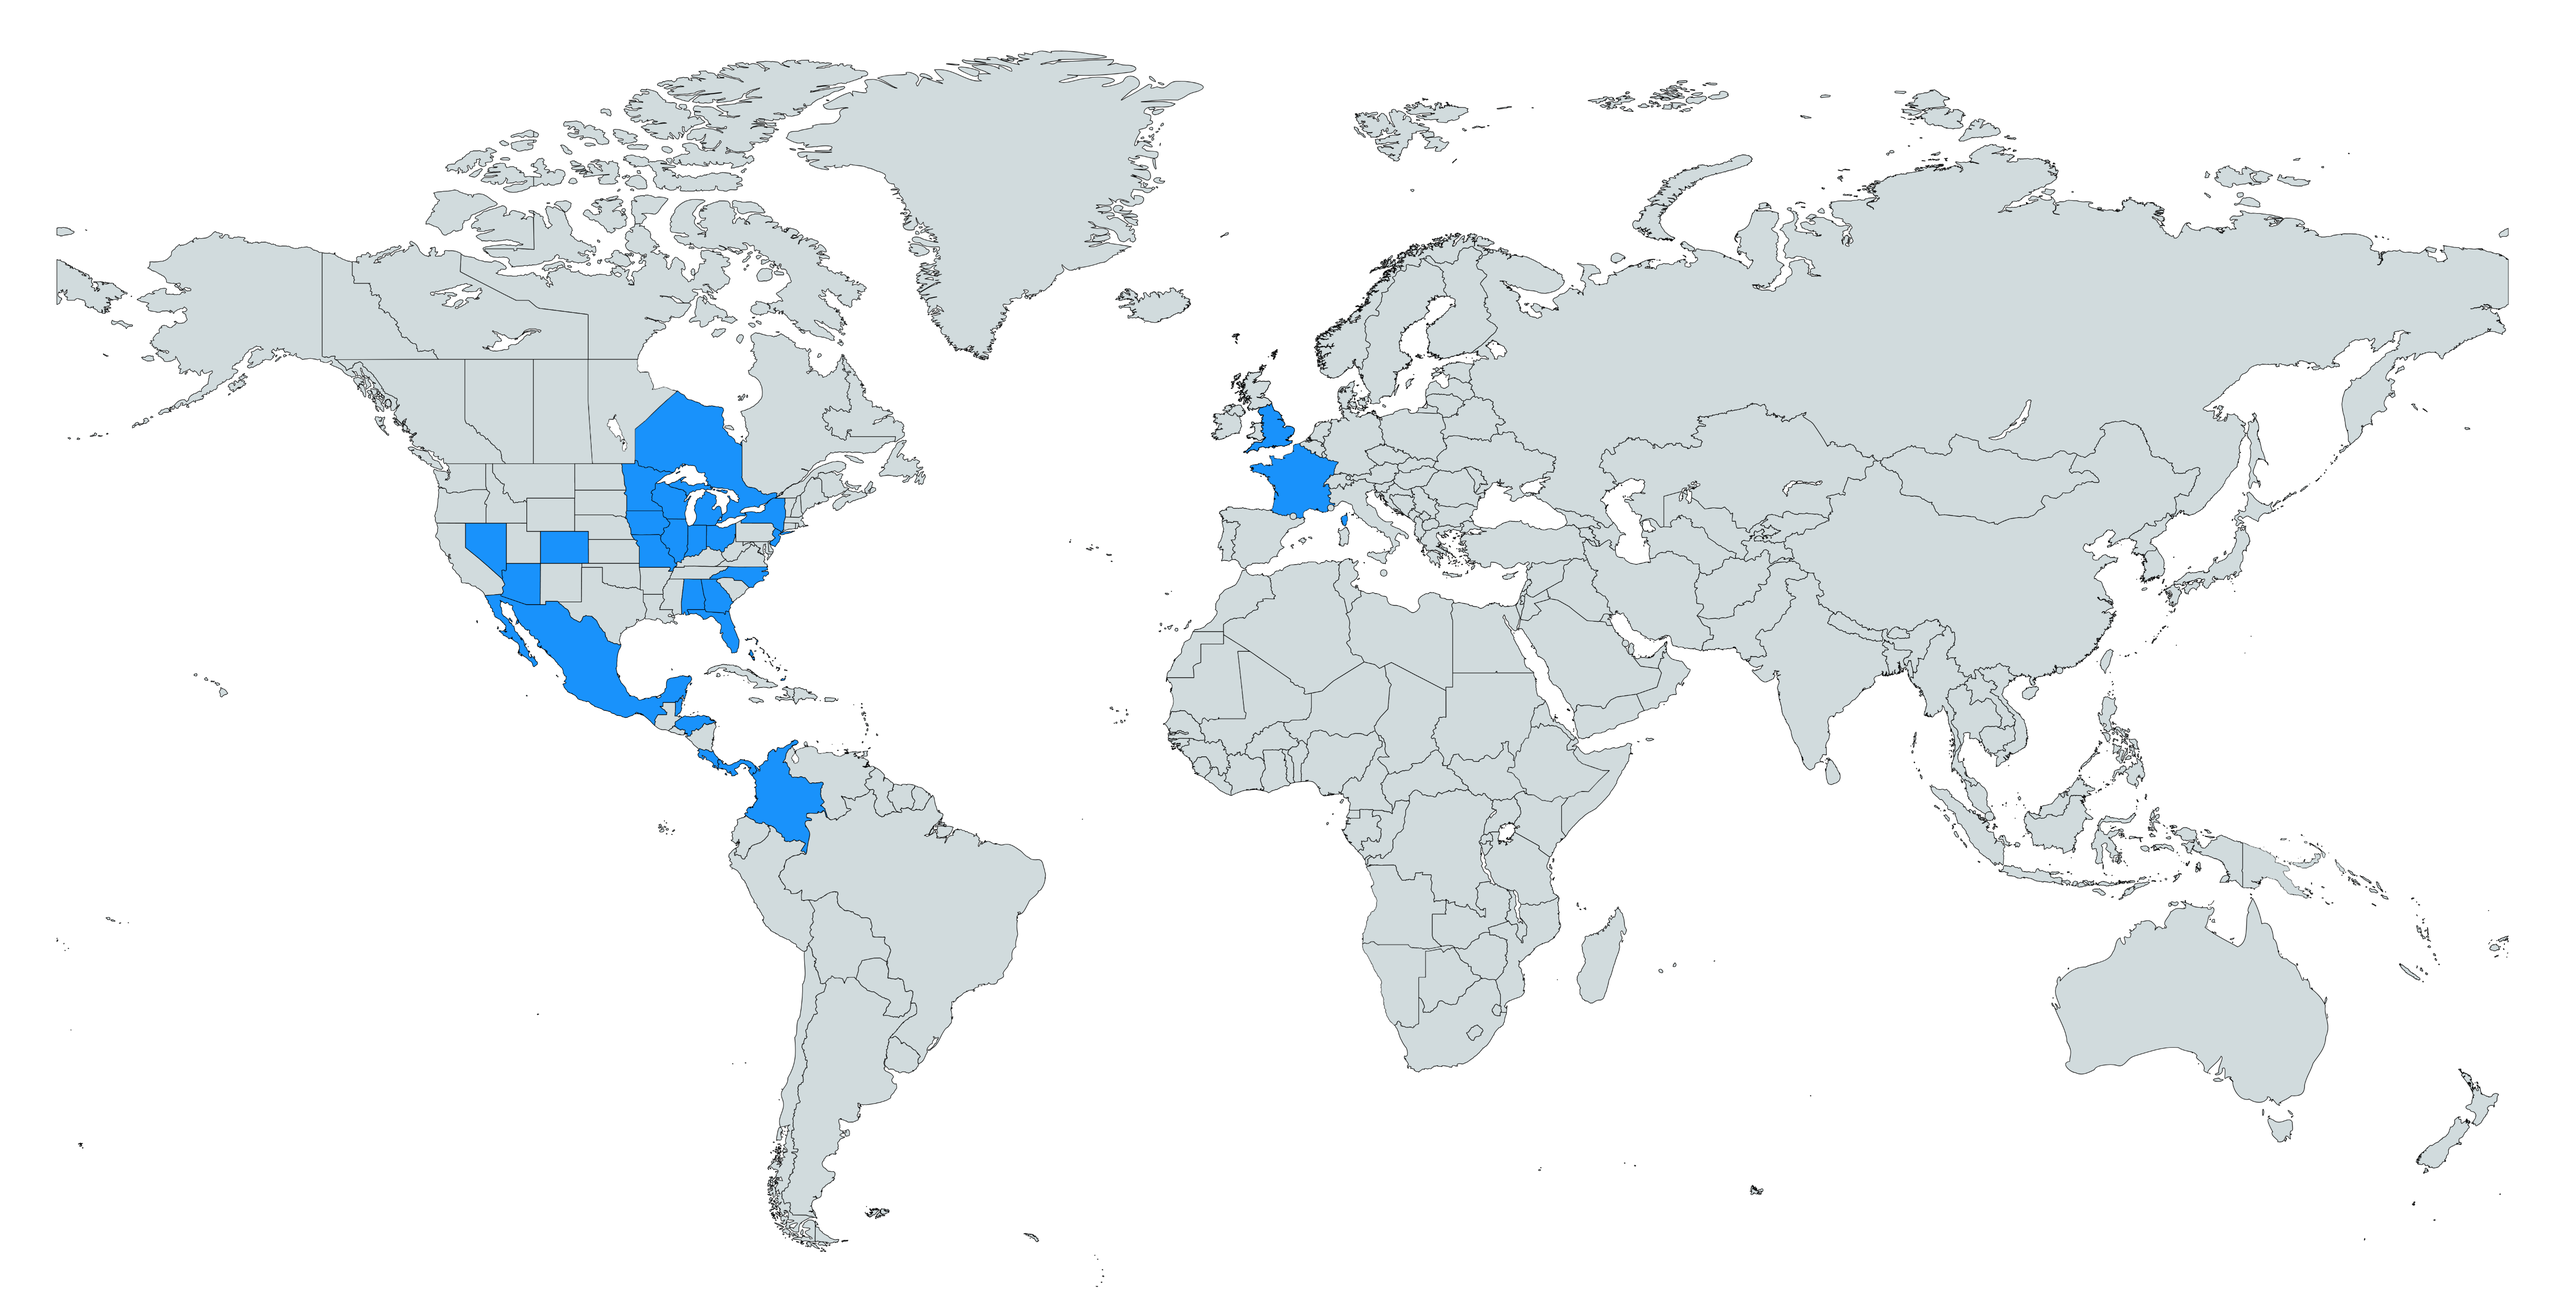
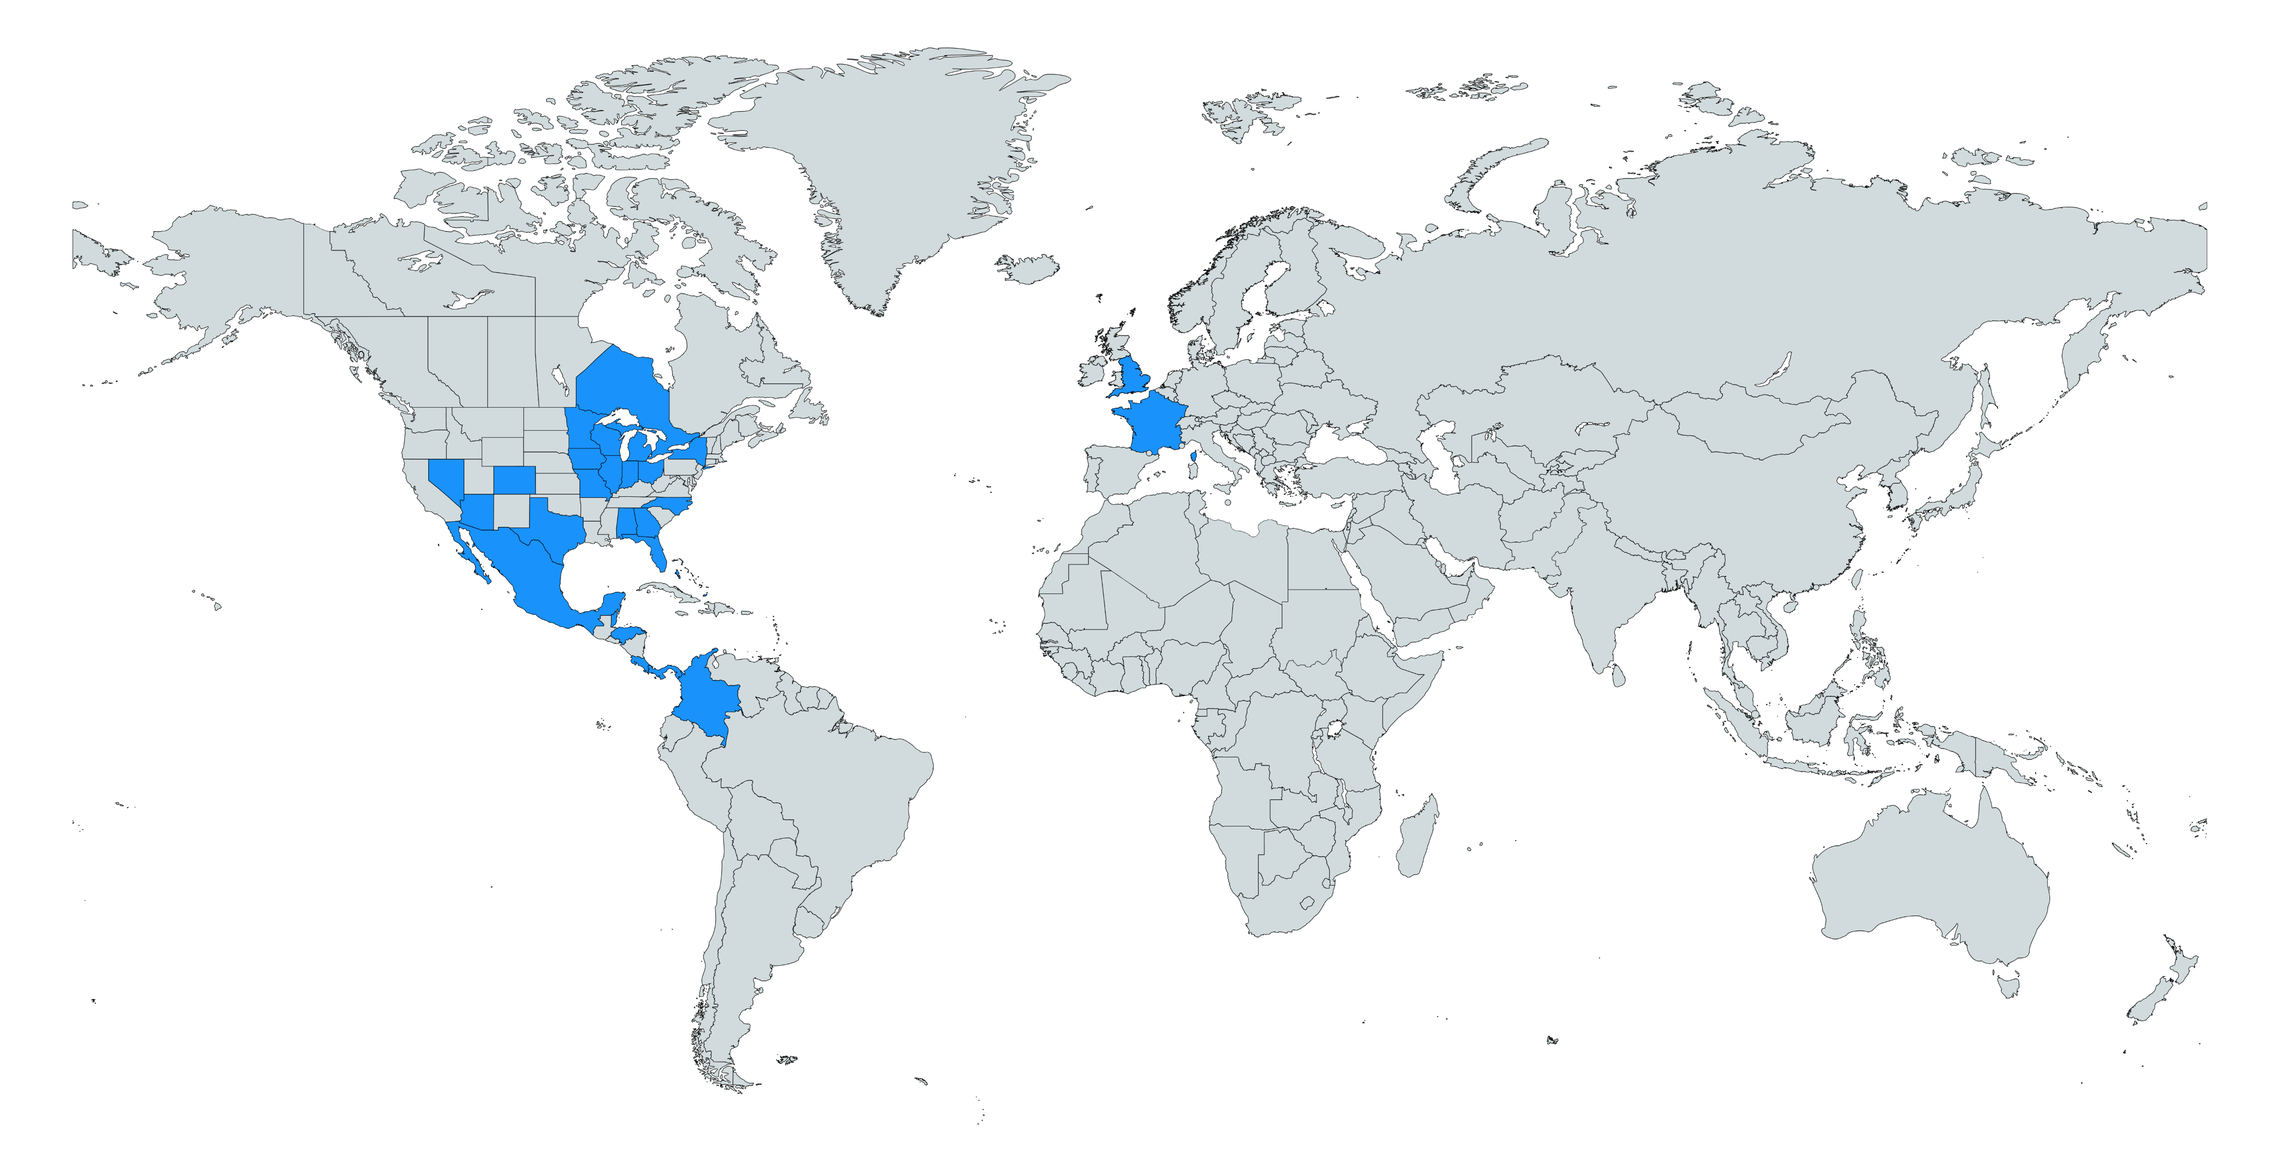
Updated Goals from Texas Trip

diff --git a/index.html b/index.html
@@ -196,10 +196,10 @@
 
 <button onclick="topFunction()" id="myBtn" title="Go to top">Back to Top</button>
 
-<!-- Currently 2/12/2026 there are 47/104 goals complete and 57 uncomplete -->
+<!-- Currently 2/12/2026 there are 48/104 goals complete and 56 uncomplete -->
 
 <div id="myProgress">
-  <div id="myBar">45%</div>
+  <div id="myBar">46%</div>
 </div>
 
 <div class="row">
@@ -209,7 +209,7 @@
       <!-- was open image -->
       <div class="container">
         <p class="test">Complete</p>
-        <p class="title">Completed Goals (47)</p>
+        <p class="title">Completed Goals (48)</p>
         <br>
           <p class="title">Career Goals</p>
           <p>Career (Nov. 27th, 2024)</p>
@@ -271,6 +271,7 @@
           <p>Stainless Steel Cookware (Made In, 2026)</p>
           <br>
           <p class="title">Sports</p>
+          <p>NBA Game (San Antonio Spurs, 2026)</p>
           <p>NHL Game (Red Wings, 2010)</p>
           <p>UFC Fight (UFC 319, 2025)</p>
           <br>
@@ -290,7 +291,7 @@
         </iframe>
         <div class="container">
           <p class="test">Uncomplete</p>
-          <p class="title">Uncompleted Goals (57)</p>
+          <p class="title">Uncompleted Goals (56)</p>
           <br>
           <p class="title">Career Goals</p>
           <p>Name Brand Company</p>
@@ -353,7 +354,6 @@
           <p class="title">Sports</p>
           <p>F1 Racing</p>
           <p>FIFA World Cup</p>
-          <p>NBA Game</p>
           <p>Olympics</p>
           <br>
           <p class="title">The Outdoors</p>
@@ -485,7 +485,7 @@
           <p class="title">Sports</p>
           <p>F1 Racing</p>
           <p>FIFA World Cup</p>
-          <p>NBA Game</p>
+          <p>NBA Game*</p>
           <p>NHL Game*</p>
           <p>Olympics</p>
           <p>UFC Fight*</p>

diff --git a/sports.html b/sports.html
@@ -118,9 +118,9 @@
         <div class="container">
           <p class="test">FIFA World Cup</p>
           <p class="title">Soccer or Football</p>
-          <p>Every 4 years</p>
-          <p>Next up in 2026</p>
-          <p>Go with group</p>
+          <p>Saudi Arabia vs Cape Verde</p>
+          <p>Houston, Texas</p>
+          <p>FIFA 2026 June</p>
         </div>
       </div>
     </div>
@@ -160,14 +160,13 @@
 
         <div class="column">
           <div class="card">
-            <img src="Images/NBA.avif" alt="NBA" style="width: 100%">
+            <img src="Images/NBAGame.jpeg" alt="NBA" style="width: 100%">
             <div class="container">
-              <p class="test">NBA Game</p>
+              <p class="test">NBA Game (Complete)</p>
               <p class="title">National Basketball Association</p>
-              <p>Los Angeles Lakers</p>
-              <p>Golden State Warriors </p>
-              <p>Miami Heat</p>
-              <p>Bulls</p>
+              <p>San Antonio Spurs vs Houston Rockets</p>
+              <p>2026</p>
+              <p>Jersey #1</p>
             </div>
           </div>
         </div>

diff --git a/travel.html b/travel.html
@@ -155,6 +155,8 @@
     <div class="container">
       <p class="test">Landmarks</p>
       <p class="title">Famous Landmarks</p>
+      <p>San Antonio River Walk (2026)</p>
+      <p>The Alamo (2026)</p>
       <p>Eiffel Tower (2025)</p>
       <p>Grand Canyon (2025)</p>
       <p>Disneyland Paris (2025)</p>
@@ -195,7 +197,7 @@
   <img src="Images/USA.jpg" alt="USA" style="width:100%">
   <div class="container">
     <p class="test">United States of America</p>
-    <p class="title">(16/50)</p>
+    <p class="title">(17/50)</p>
     <p>Michigan (2001)</p>
     <p>New York (2024, 2025)</p>
     <p>Ohio</p>
@@ -212,6 +214,7 @@
     <p>Arizona (Grand Canyon,2025)</p>
     <p>New Jersey (2025)</p>
     <p>Georgia</p>
+    <p>Texas (San Antonio, 2026)</p>
   </div>
 </div>
 </div>
@@ -222,6 +225,7 @@
     <div class="container">
       <p class="test">Cities</p>
       <p class="title">Famous Cities</p>
+      <p>San Antonio (2026)</p>
       <p>Las Vegas (2025)</p>
       <p>Paris (2025)</p>
       <p>London (2025)</p>

diff --git a/inProgress.html b/inProgress.html
@@ -95,7 +95,7 @@
 </div>
 
 <div id="myProgress">
-  <div id="myBar" style="font-weight: 550;">45%</div>
+  <div id="myBar" style="font-weight: 550;">46%</div>
 </div>
 
 <div class="row"></div>
@@ -105,6 +105,9 @@
       <div class="container">
         <p class="test">Past</p>
         <!-- <p class="title">Recently Completed</p> -->
+        <p>NBA Game</p>
+        <p>Premium travel credit card</p>
+        <p>Custom License Plate "TRAVE1"</p>
         <p>Zipline</p>
         <p>South Amercia</p>
         <p>Rainforrest</p>
@@ -122,8 +125,6 @@
       <div class="container">
         <p class="test">Present</p>
         <!-- <p class="title">In Progress</p> -->
-        <p>Premium travel credit card</p>
-        <p>Custom License Plate "TRAVE1"</p>
         <p>Juggling</p>
         <p>Hand stand</p>
         <p>Recording song</p>

diff --git a/progressBar.css b/progressBar.css
@@ -23,7 +23,7 @@
   }
   
   #myBar {
-    width: 45%;
+    width: 46%;
     height: 30px;
     /* background-color: rgb(214, 214, 214); */
     background-color: rgb(25, 146, 251);
